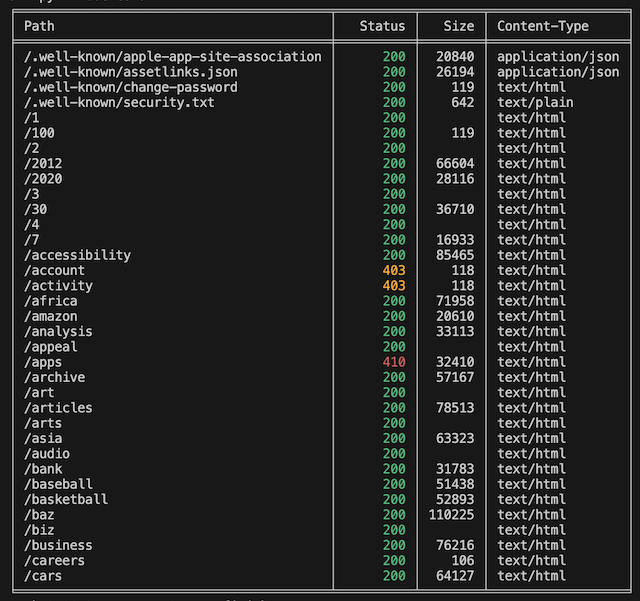
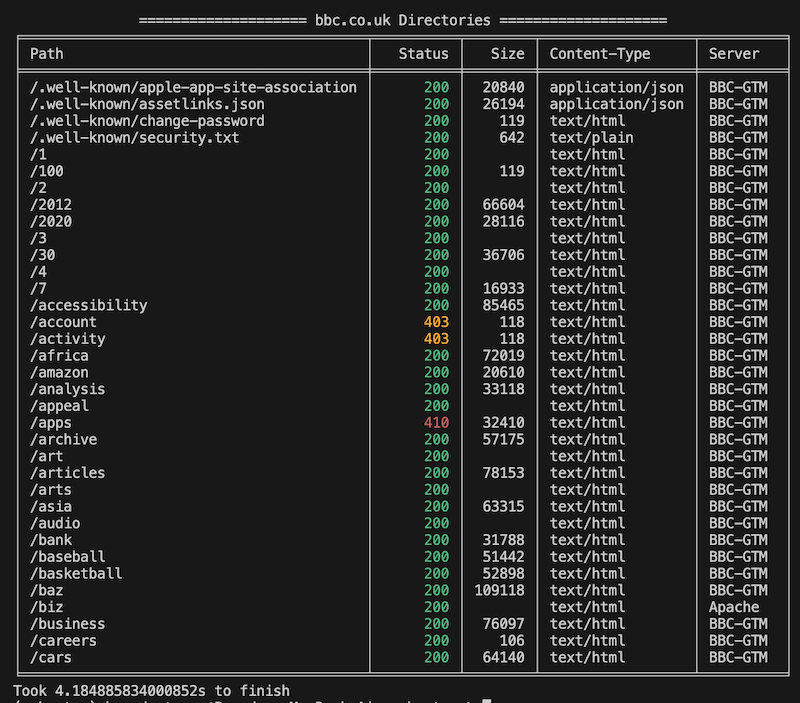
Display "Server" header value

Changed region(s): [[0.0, 0.0, 1.0, 1.0]]

diff --git a/pybuster/table.py b/pybuster/table.py
@@ -8,6 +8,8 @@ from .requester import ResponseResult
 
 class Colours(Enum):
     ORANGE = "\033[38;2;255;165;0m"
+    GREEN = Fore.GREEN
+    RED = Fore.RED
 
 
 def display_responses(responses: list[ResponseResult], host: str):
@@ -17,26 +19,31 @@ def display_responses(responses: list[ResponseResult], host: str):
             colour_status_codes(resp.status_code),
             resp.size,
             resp.content_type,
+            resp.server,
         ]
         for resp in responses
     ]
     table = tabulate(
-            coloured_data,
-            headers=["Path", "Status", "Size", "Content-Type"],
-            tablefmt="fancy_outline",
-        )
+        coloured_data,
+        headers=["Path", "Status", "Size", "Content-Type", "Server"],
+        tablefmt="fancy_outline",
+    )
     table_width = len(table.splitlines()[0])
     print("\n")
-    print(f"==================== {host} Directories ====================".center(table_width))
+    print(
+        f"==================== {host} Directories ====================".center(
+            table_width
+        )
+    )
     print(table)
 
 
 def colour_status_codes(status_code: int) -> str:
     match status_code:
         case 200:
-            colour = Fore.GREEN
+            colour = Colours.GREEN.value
         case 403 | 401:
             colour = Colours.ORANGE.value
         case _:
-            colour = Fore.RED
+            colour = Colours.RED.value
     return colour + str(status_code) + Style.RESET_ALL

diff --git a/pybuster/requester.py b/pybuster/requester.py
@@ -11,6 +11,7 @@ class ResponseResult:
     path: str
     size: int | None
     content_type: str | None = None
+    server: str | None = None
 
 
 class Requester:
@@ -36,8 +37,8 @@ class Requester:
         self, path: str, session: aiohttp.ClientSession
     ) -> ResponseResult | None:
         try:
-            response = await session.get(path)
-        except aiohttp.ClientError:
+            response = await session.get(path, allow_redirects=False)
+        except aiohttp.ClientError: # TODO: need to handle HTTP and asyncio timeouts
             print(f"Unable to find response for /{path}")
             return None
 
@@ -55,4 +56,5 @@ def deserialize_aiohttp_response(
         path=path,
         size=response.content_length,
         content_type=response.content_type,
+        server=response.headers.get("Server"),
     )

diff --git a/main.py b/main.py
@@ -23,7 +23,7 @@ def get_args():
         "--filename",
         help="Optional path to a file containing paths to enumerate, separate by a newline",
         required=False,
-        default="common.txt"
+        default="common.txt",
     )
     return args_parser.parse_args()
 
@@ -34,9 +34,10 @@ def main():
     target_host = args.target
     filename = args.filename
     target_paths = get_target_paths(filename)
-    requester = Requester(target_host, target_paths[1:1000])
+    requester = Requester(target_host, target_paths)
     results: list[list[str]] = asyncio.run(requester.run())
     display_responses(results, target_host)
+    print(f"Enumerated {len(target_paths)} paths")
 
 
 if __name__ == "__main__":

diff --git a/pybuster/utils.py b/pybuster/utils.py
@@ -7,6 +7,6 @@ def timer(func):
         func(*args)
         end_t = time.perf_counter()
         duration = end_t - start_t
-        print(f"Took {duration}s to finish")
+        print(f"Took {round(duration, 2)} seconds")
 
     return wrapper
